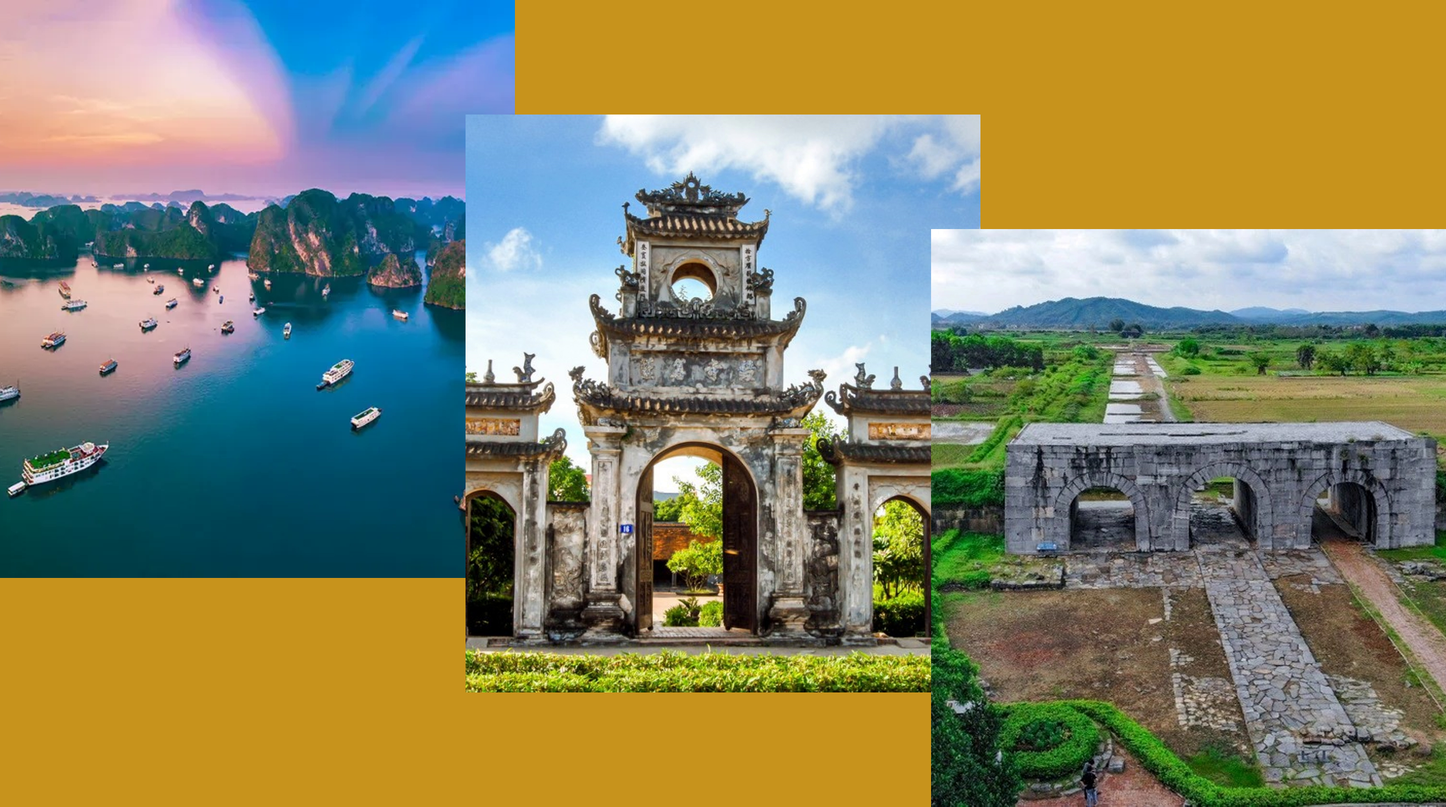
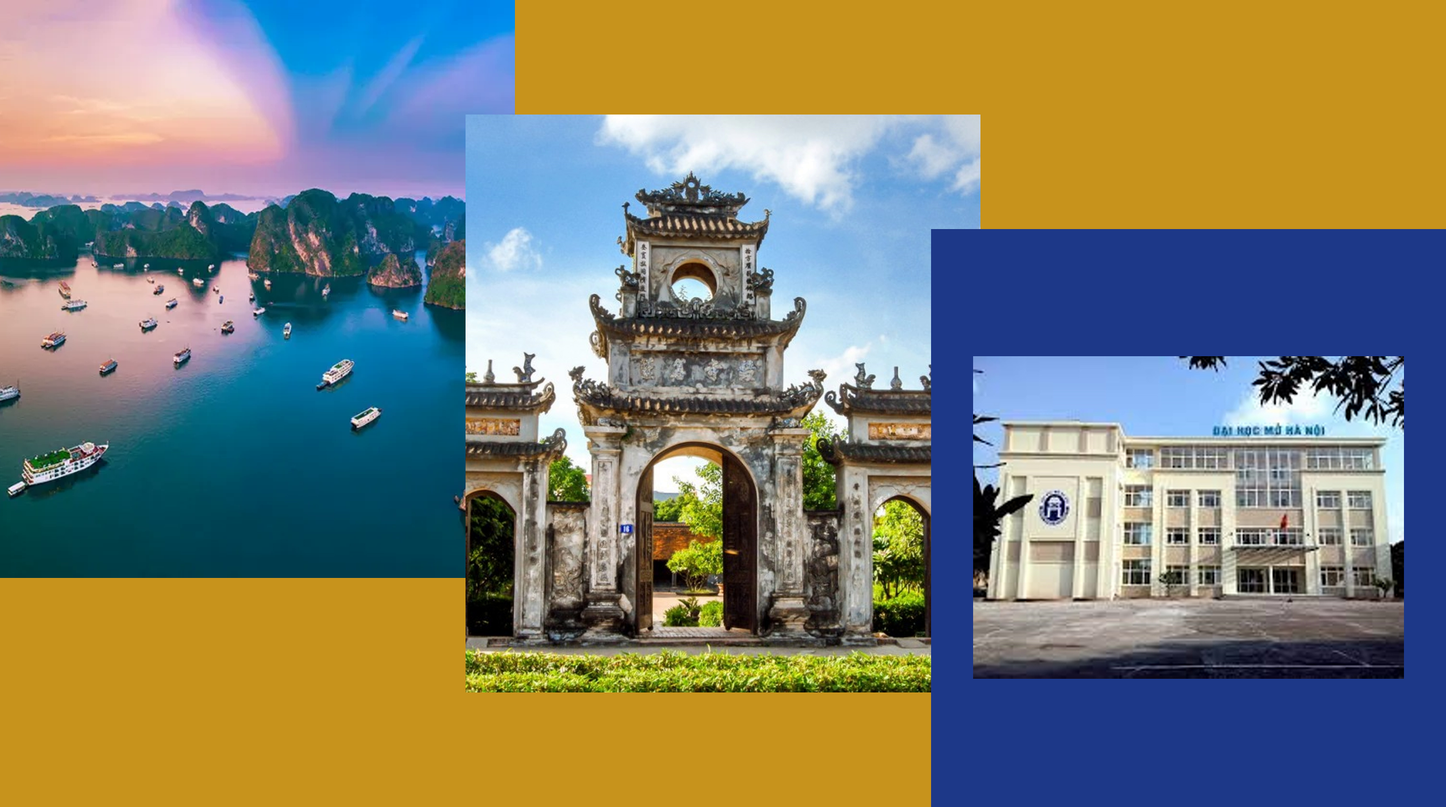
chore: some fix

Changed region(s): [[0.625, 0.2812, 1.0, 1.0]]

diff --git a/src/App.tsx b/src/App.tsx
@@ -1263,10 +1263,10 @@ function VanMieuHeritageSection() {
           <div className="absolute bottom-[5%] right-[2%]">
             <div
               className="rounded px-2 py-0.5 md:px-3 md:py-1"
-              style={{ background: 'rgba(68,64,60,0.85)', backdropFilter: 'blur(6px)' }}
+              style={{ background: 'rgba(30,58,138,0.85)', backdropFilter: 'blur(6px)' }}
             >
               <p className="text-[8px] md:text-[10px] font-bold uppercase tracking-widest text-stone-300">Thanh Hóa</p>
-              <p className="text-[9px] md:text-xs font-extrabold text-white">Thành Nhà Hồ</p>
+              <p className="text-[9px] md:text-xs font-extrabold text-white">Lam Kinh</p>
             </div>
           </div>
 
@@ -1427,7 +1427,7 @@ function DaiHocMoSection() {
       {/* Background photo — sáng hơn */}
       <div
         className="pointer-events-none absolute inset-0"
-        style={{ backgroundImage: 'url(/image.png)', backgroundSize: 'cover', backgroundPosition: 'center top', opacity: 0.55 }}
+        style={{ backgroundImage: 'url(/images/hou-campus.png)', backgroundSize: 'cover', backgroundPosition: 'center top', opacity: 0.55 }}
       />
       {/* Overlay mỏng giữ readability */}
       <div className="pointer-events-none absolute inset-0" style={{ background: 'linear-gradient(180deg, rgba(15,35,80,0.55) 0%, rgba(20,50,110,0.45) 100%)' }} />
